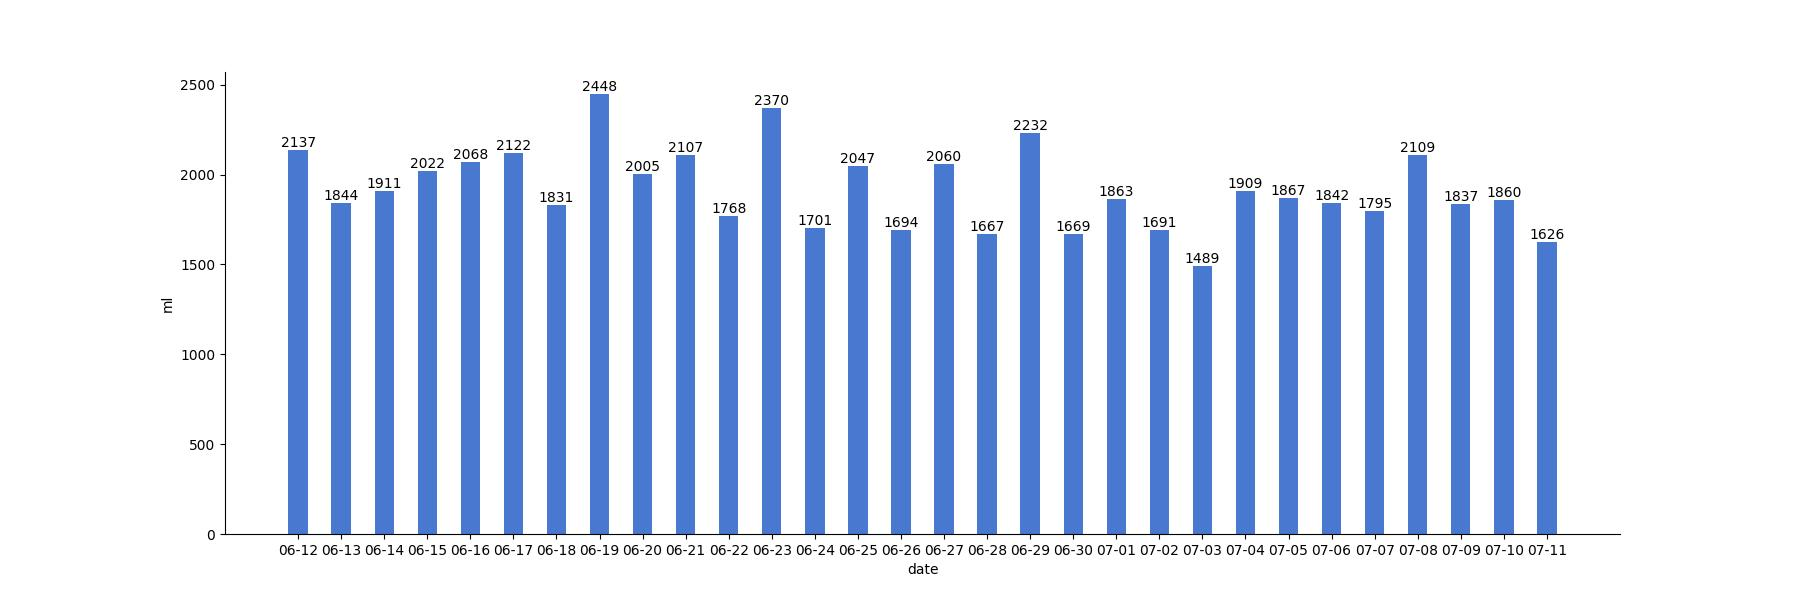
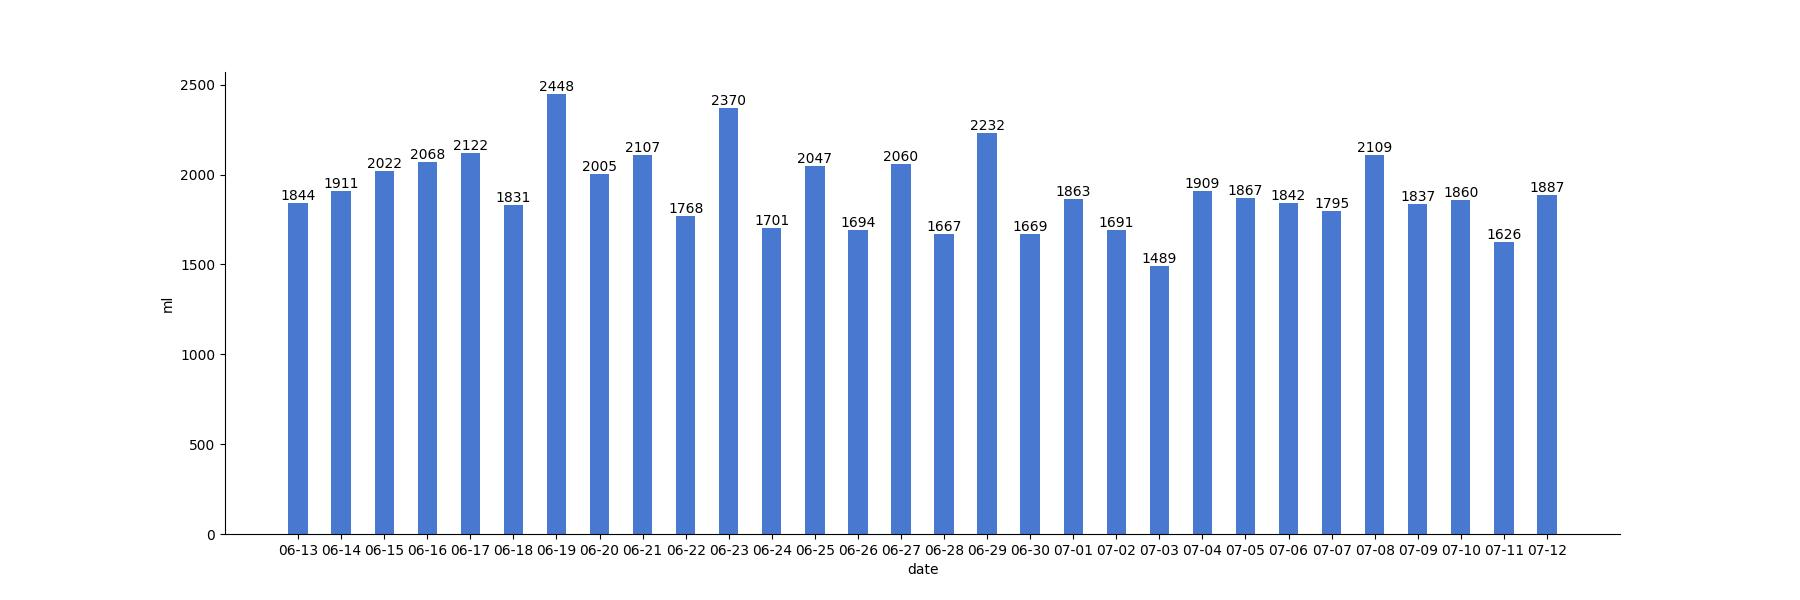
generated readme

diff --git a/README.md b/README.md
@@ -5,12 +5,12 @@
 
 | 今日总饮水量 | 每小时平均饮水量 |
 | :----: | :----: |
-| 1887 | 111 |
+| 97 | 97 |
 </div>
 
-| 日期 | 00:42:55 | 01:13:39 | 01:43:45 | 02:17:18 | 03:11:03 | 03:41:22 | 04:10:28 | 04:30:38 | 05:19:13 | 05:41:36 | 06:28:59 | 07:03:52 | 07:28:08 | 15:31:05 | 15:50:25 | 16:25:30 | 16:56:40 | 17:44:23 | 17:54:34 | 18:33:55 | 18:53:33 | 19:11:49 | 19:47:12 | 20:37:10 | 21:45:09 | 22:30:42 | 23:15:34 | 23:45:57 |
-| :----: | :----: | :----: | :----: | :----: | :----: | :----: | :----: | :----: | :----: | :----: | :----: | :----: | :----: | :----: | :----: | :----: | :----: | :----: | :----: | :----: | :----: | :----: | :----: | :----: | :----: | :----: | :----: | :----: |
-| 2022-07-12 | 100 | 67 | 72 | 84 | 53 | 57 | 67 | 72 | 55 | 67 | 77 | 29 | 47 | 52 | 63 | 70 | 64 | 60 | 112 | 73 | 57 | 36 | 75 | 88 | 64 | 122 | 49 | 55 |
+| 日期 | 00:06:40 |
+| :----: | :----: |
+| 2022-07-13 | 97 |
 
 # 近30日饮水数据
 
@@ -19,8 +19,12 @@
 
 | 总饮水量 | 日均饮水量 |
 | :----: | :----: |
-| 57591 | 1919 |
+| 57341 | 1911 |
 </div>
+
+| 日期 | all | 00:42:55 | 01:13:39 | 01:43:45 | 02:17:18 | 03:11:03 | 03:41:22 | 04:10:28 | 04:30:38 | 05:19:13 | 05:41:36 | 06:28:59 | 07:03:52 | 07:28:08 | 15:31:05 | 15:50:25 | 16:25:30 | 16:56:40 | 17:44:23 | 17:54:34 | 18:33:55 | 18:53:33 | 19:11:49 | 19:47:12 | 20:37:10 | 21:45:09 | 22:30:42 | 23:15:34 | 23:45:57 |
+| :----: | :----: | :----: | :----: | :----: | :----: | :----: | :----: | :----: | :----: | :----: | :----: | :----: | :----: | :----: | :----: | :----: | :----: | :----: | :----: | :----: | :----: | :----: | :----: | :----: | :----: | :----: | :----: | :----: | :----: |
+| 2022-07-12 | 1887 | 100 | 67 | 72 | 84 | 53 | 57 | 67 | 72 | 55 | 67 | 77 | 29 | 47 | 52 | 63 | 70 | 64 | 60 | 112 | 73 | 57 | 36 | 75 | 88 | 64 | 122 | 49 | 55 |
 
 | 日期 | all | 00:22:11 | 01:48:28 | 10:17:58 | 10:48:47 | 12:18:19 | 13:41:39 | 14:41:27 | 15:13:21 | 15:57:54 | 16:28:09 | 17:00:58 | 20:17:55 | 21:03:39 | 21:37:50 | 22:17:39 | 22:49:48 | 23:35:02 |
 | :----: | :----: | :----: | :----: | :----: | :----: | :----: | :----: | :----: | :----: | :----: | :----: | :----: | :----: | :----: | :----: | :----: | :----: | :----: |
@@ -141,8 +145,4 @@
 | 日期 | all | 00:04:21 | 00:50:23 | 01:18:19 | 02:17:09 | 03:42:50 | 04:23:10 | 05:09:05 | 06:00:36 | 06:28:09 | 06:44:56 | 06:57:40 | 06:57:49 | 07:34:13 | 15:45:55 | 16:12:57 | 16:42:54 | 17:13:02 | 17:30:10 | 19:00:02 | 19:35:56 | 20:05:49 | 20:41:47 | 21:07:50 | 21:42:52 | 22:49:21 |
 | :----: | :----: | :----: | :----: | :----: | :----: | :----: | :----: | :----: | :----: | :----: | :----: | :----: | :----: | :----: | :----: | :----: | :----: | :----: | :----: | :----: | :----: | :----: | :----: | :----: | :----: | :----: |
 | 2022-06-12 | 2137 | 77 | 200 | 20 | 45 | 73 | 28 | 77 | 78 | 88 | 28 | 22 | 200 | 66 | 49 | 31 | 17 | 48 | 57 | 500 | 75 | 76 | 88 | 92 | 55 | 47 |
-
-| 日期 | all | 00:49:56 | 02:01:45 | 02:36:30 | 03:10:13 | 03:48:31 | 04:13:46 | 05:08:16 | 05:48:49 | 06:47:39 | 07:10:32 | 07:29:25 | 08:16:01 | 15:18:16 | 16:40:16 | 17:44:11 | 17:56:33 | 18:26:33 | 18:56:32 | 19:11:43 | 19:48:24 | 20:21:40 | 20:43:19 | 20:46:17 | 22:02:57 | 22:28:29 | 22:38:03 | 23:07:09 | 23:51:52 |
-| :----: | :----: | :----: | :----: | :----: | :----: | :----: | :----: | :----: | :----: | :----: | :----: | :----: | :----: | :----: | :----: | :----: | :----: | :----: | :----: | :----: | :----: | :----: | :----: | :----: | :----: | :----: | :----: | :----: | :----: |
-| 2022-06-11 | 2313 | 200 | 43 | 61 | 125 | 69 | 88 | 42 | 200 | 67 | 16 | 72 | 54 | 81 | 33 | 300 | 200 | 29 | 30 | 86 | 104 | 57 | 89 | 29 | 54 | 47 | 28 | 35 | 74 |
 
